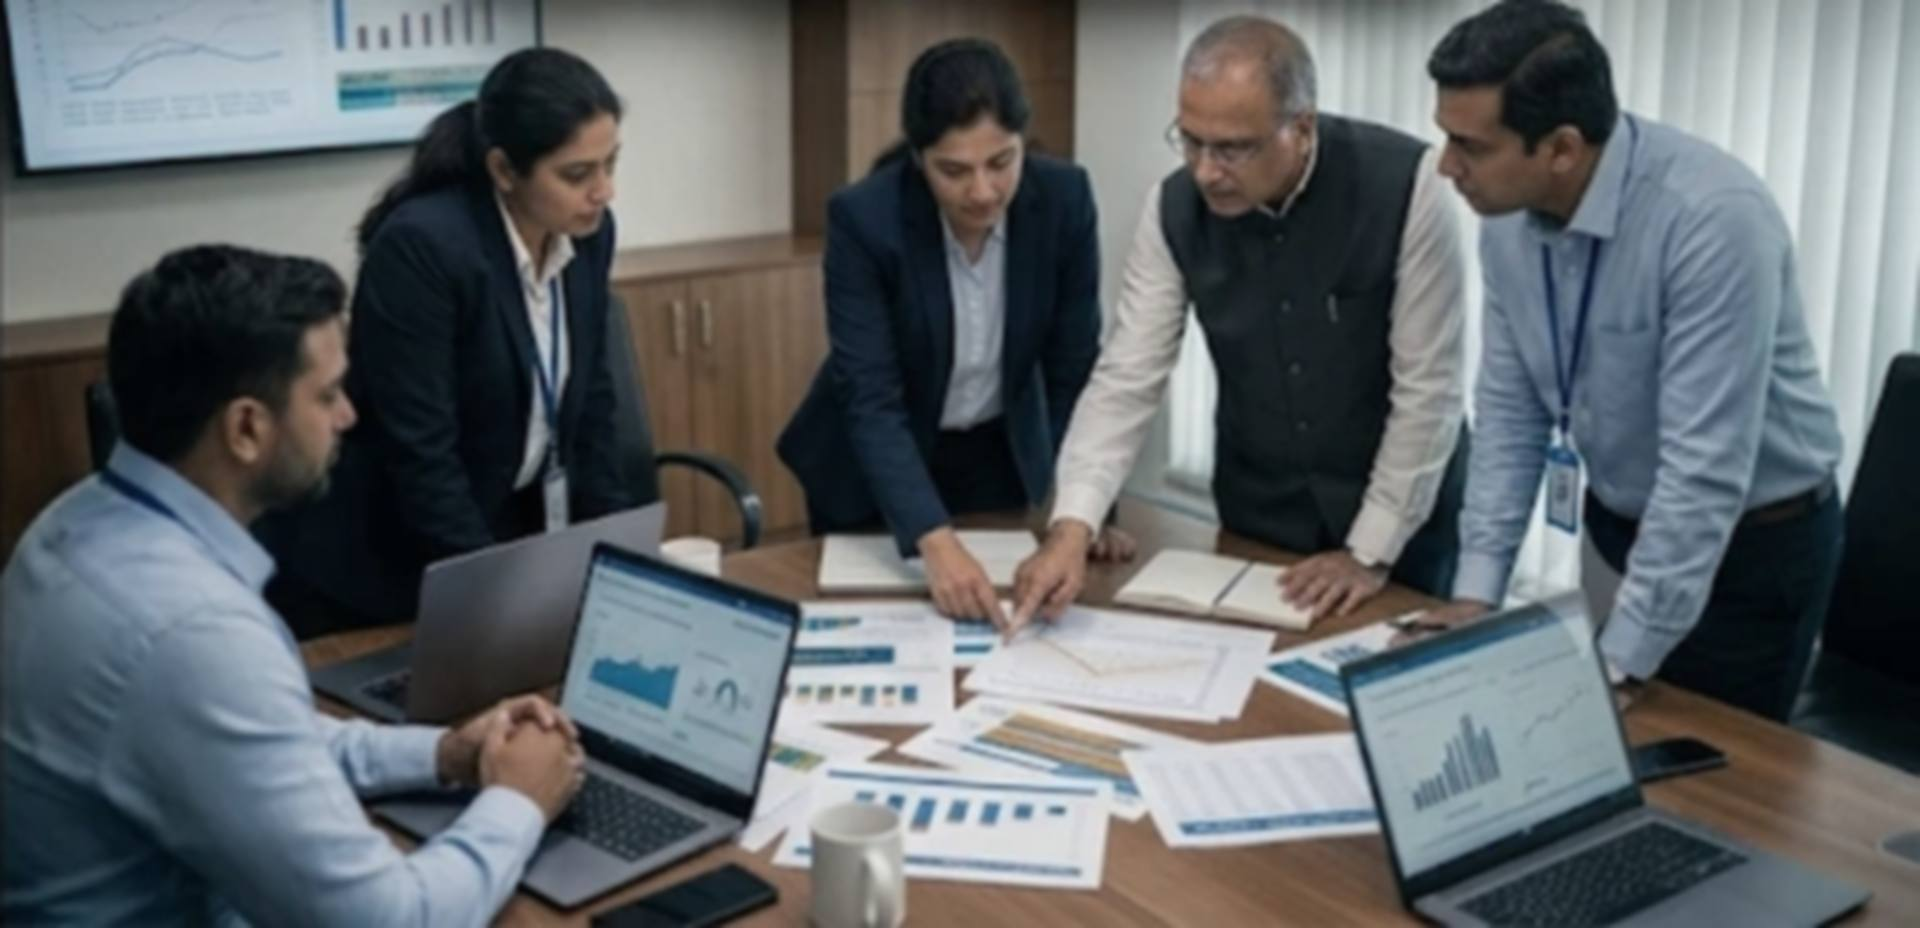
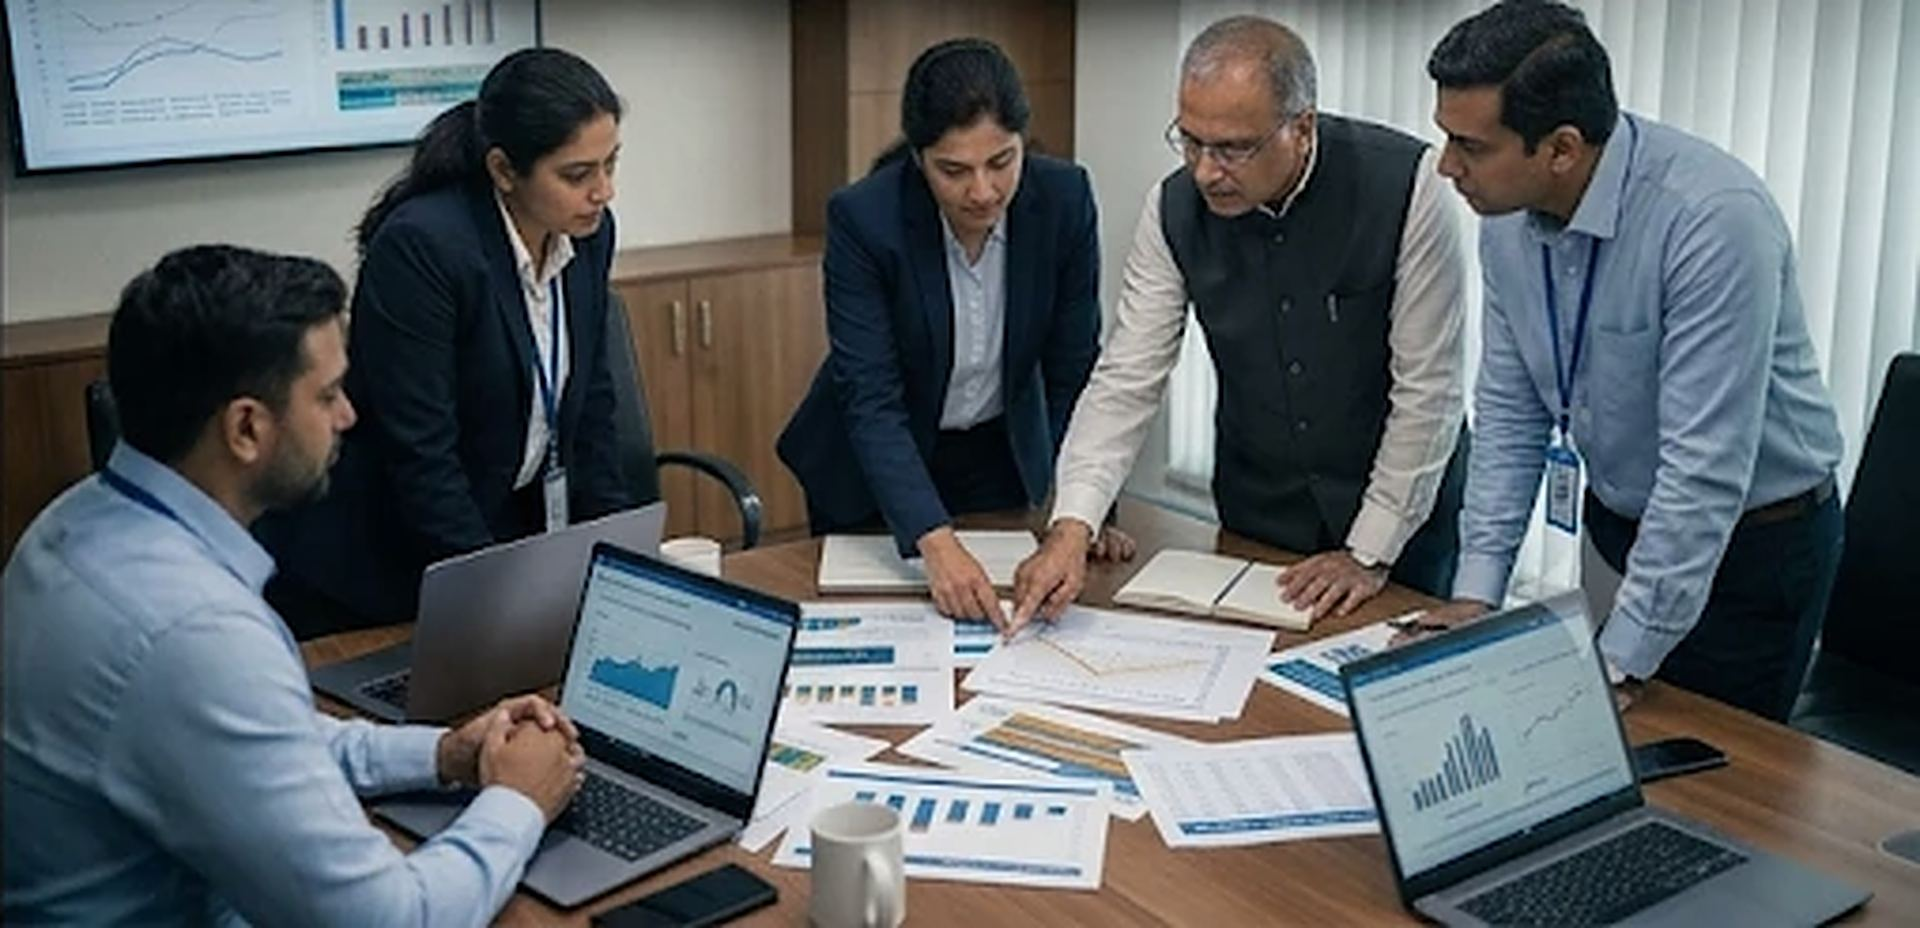
Make the hero's consultants clearly visible
Sharper grade of the conference-table photo (formal attire, team
reviewing reports) and a reworked hero overlay: dark behind the copy,
opening up on the right so the people read clearly, with a bottom
fade keeping the discipline strip legible and a solid overlay on
phones. Stylesheet version bumped.

Claude-Session: https://claude.ai/code/session_01RVmbAq8XdQfUfGPqymFDWd

diff --git a/assets/css/styles.css b/assets/css/styles.css
@@ -188,11 +188,15 @@ ul, ol { margin: 0; padding: 0; }
 .hero { position: relative; isolation: isolate; color: #d7def2; overflow: hidden; background: var(--navy-900); }
 .hero-media, .hero-media img { position: absolute; inset: 0; width: 100%; height: 100%; }
 .hero-media { z-index: -2; }
-.hero-media img { object-fit: cover; object-position: center 40%; }
-.hero::before {
+.hero-media img { object-fit: cover; object-position: 70% 30%; }
+.hero::before { /* dark behind the copy, opening up so the meeting photo shows on the right */
   content: ""; position: absolute; inset: 0; z-index: -1;
   background:
-    linear-gradient(100deg, rgba(11, 17, 46, .96) 0%, rgba(18, 26, 66, .9) 42%, rgba(18, 26, 66, .55) 100%);
+    linear-gradient(0deg, rgba(11, 17, 46, .92) 0%, rgba(11, 17, 46, 0) 32%),
+    linear-gradient(100deg, rgba(11, 17, 46, .97) 0%, rgba(18, 26, 66, .9) 38%, rgba(18, 26, 66, .45) 62%, rgba(18, 26, 66, .2) 100%);
+}
+@media (max-width: 760px) {
+  .hero::before { background: linear-gradient(180deg, rgba(11, 17, 46, .9) 0%, rgba(18, 26, 66, .8) 100%); }
 }
 .hero .container { padding-block: clamp(72px, 12vw, 136px) clamp(48px, 7vw, 80px); }
 .hero-copy { max-width: 760px; }

diff --git a/index.html b/index.html
@@ -25,7 +25,7 @@
 
   <link rel="preload" href="assets/fonts/ibm-plex-sans-latin.woff2" as="font" type="font/woff2" crossorigin>
   <link rel="preload" href="assets/fonts/ibm-plex-mono-500-latin.woff2" as="font" type="font/woff2" crossorigin>
-  <link rel="stylesheet" href="assets/css/styles.css?v=2">
+  <link rel="stylesheet" href="assets/css/styles.css?v=3">
 
   <script type="application/ld+json">
   {

diff --git a/services.html b/services.html
@@ -24,7 +24,7 @@
 
   <link rel="preload" href="assets/fonts/ibm-plex-sans-latin.woff2" as="font" type="font/woff2" crossorigin>
   <link rel="preload" href="assets/fonts/ibm-plex-mono-500-latin.woff2" as="font" type="font/woff2" crossorigin>
-  <link rel="stylesheet" href="assets/css/styles.css?v=2">
+  <link rel="stylesheet" href="assets/css/styles.css?v=3">
 
   <script type="application/ld+json">
   {

diff --git a/README.md b/README.md
@@ -39,13 +39,14 @@ The static two-page website for **[www.techforceconsulting.com](https://www.tech
 All seven photos are in place. Every one comes from your AI-generated consulting collage, so there are no stock-photo licences to worry about.
 
 - **Sector cards:** cropped to 16:9. The baked-in labels and the "restricted/confidential" document markings were removed.
-- **Hero and services header:** softened and darkened on purpose, so they read as atmosphere behind the text.
+- **Home hero:** formally dressed consultants discussing reports around a conference table. The headline side is darkened for readability, and the people show clearly on the right.
+- **Services header:** softened and darkened on purpose, so it reads as atmosphere behind the text.
 
 > **Upgrade when you have time:** the collage was only 1024 px wide, so the photos are slightly soft on high-resolution screens. Regenerate each scene **on its own, at 1600 px wide or more, with no text labels**, and save it over the file with the same name. No code changes are needed. If a sector photo ever goes missing, its card shows a navy blueprint panel instead of a broken image.
 
 | Filename | Where it appears | Suggested scene for a regenerated version | Size |
 |---|---|---|---|
-| `consulting-hero-boardroom.jpg` | Home hero (behind text, darkened) | Indian engineering consultants reviewing diagnostic reports around a conference table | 1920 × 1080 |
+| `consulting-hero-boardroom.jpg` | Home hero (people visible on the right; keep faces right of centre) | Indian engineering consultants reviewing diagnostic reports around a conference table | 1920 × 1080 |
 | `consulting-lab-metallurgy.jpg` | Services page header (darkened) | Consultants reviewing failure-analysis drawings in an engineering office or lab | 1920 × 1080 |
 | `consulting-meeting-oil-gas.jpg` | Oil & Gas card | Reviewing pipeline weld inspection reports in a meeting room | 1200 × 675 |
 | `consulting-meeting-defence.jpg` | Defence card | Examining metallurgical test reports in a modern lab | 1200 × 675 |
